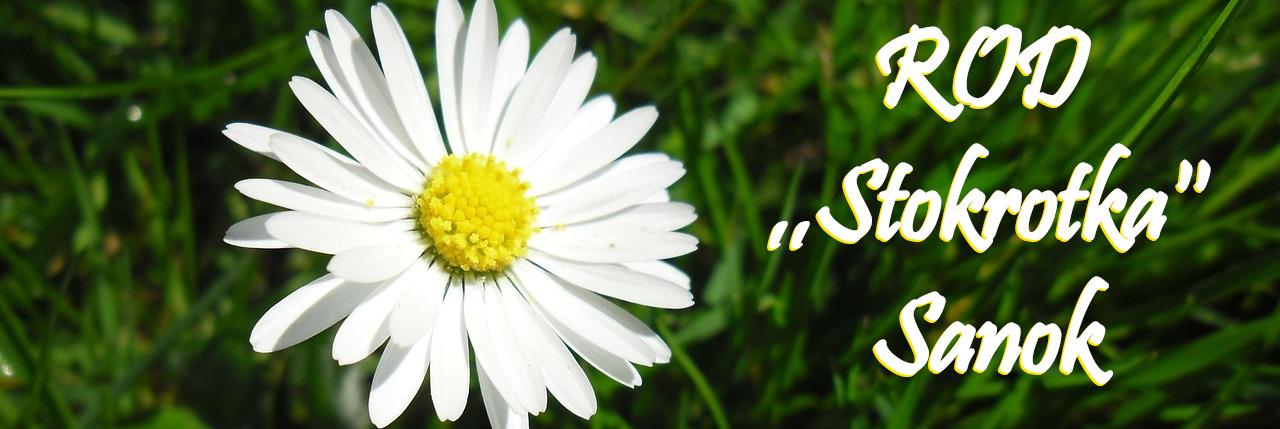
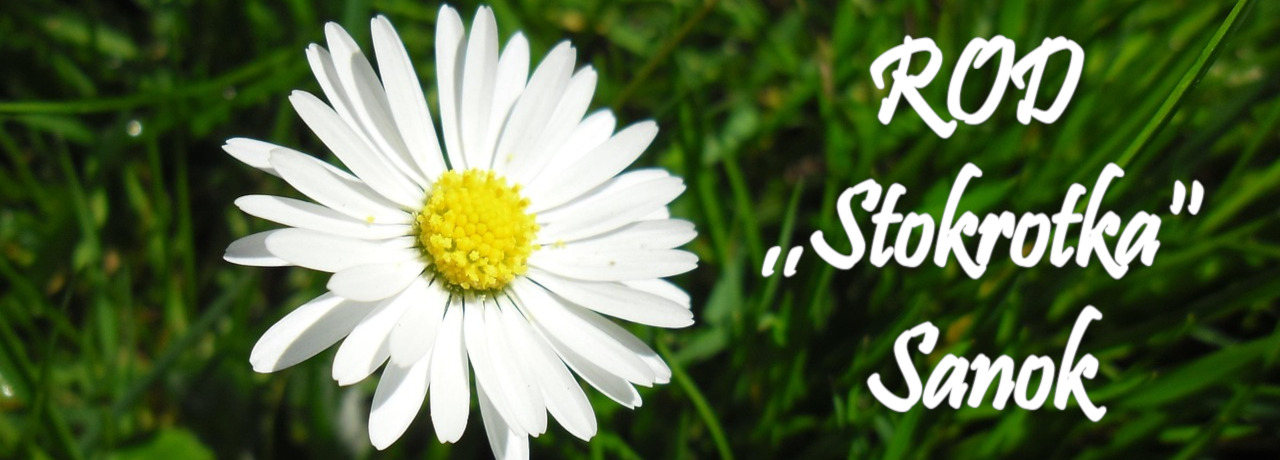
refactor: change wip section

diff --git a/app/garden-map/page.tsx b/app/garden-map/page.tsx
@@ -1,3 +1,4 @@
+import ImageSeparator from '@/components/ImageSeparator';
 import LineSeparator from '@/components/LineSeparator';
 
 export default function DevelopmentPlanPage() {
@@ -5,12 +6,25 @@ export default function DevelopmentPlanPage() {
         <article>
             <h1>Mapa Ogrodu</h1>
             <LineSeparator />
-            <h2>Uproszczony schemat zagospodarowania naszego ogrodu</h2>
-            <section>
-                <p>
-                    *Szczegółowy plan zagospodarowania jest dostępny do pobrania
-                    w zakładce DOKUMENTY.
-                </p>
+            <h2>Podgląd zagospodarowania terenu</h2>
+            <section className="flex flex-col items-center">
+                <img src="/mapa-ogrodu.png" className="w-xl" />
+                <a
+                    href="/#"
+                    download="/Plan_Zagospodarowania_ROD_Stokrotka.pdf"
+                    className="group inline-flex items-center px-6 py-3 gap-1 bg-green-500 text-white rounded-lg border-2 border-green-500 hover:bg-transparent hover:text-green-500 transition"
+                >
+                    <img
+                        src="/download_icon_white.svg"
+                        className="group-hover:hidden"
+                    />
+                    <img
+                        src="/download_icon_green.svg"
+                        className="hidden group-hover:block"
+                    />
+                    Pobierz szczegółowy plan
+                </a>
+                <ImageSeparator />
             </section>
         </article>
     );

diff --git a/app/page.tsx b/app/page.tsx
@@ -2,6 +2,7 @@ import LineSeparator from '@/components/LineSeparator';
 import Slider from './_components/Slider';
 import ImageSeparator from '@/components/ImageSeparator';
 import Link from 'next/link';
+import WorkInProgress from '@/components/WorkInProgress';
 
 export default function HomePage() {
     return (
@@ -12,8 +13,8 @@ export default function HomePage() {
                 Strona internetowa Stowarzyszenia Ogrodowego ,,Stokrotka" w
                 Sanoku
             </h2>
-            <section>
-                <p>
+            <section className="mx-40">
+                <p className="text-center">
                     Zachęcamy naszych Działkowiczów do zaglądania na stronę
                     internetową, aby być na bieżąco z ogłoszeniami związanymi z
                     naszym ogrodem. Znajdą tutaj Państwo także wszelkie
@@ -22,12 +23,13 @@ export default function HomePage() {
             </section>
             <ImageSeparator />
             <section>
-                <h2>Galeria</h2>
+                <h2>Galeria naszego ogrodu</h2>
                 <Slider />
             </section>
             <ImageSeparator />
             <section className="text-center">
                 <h2>Ostatnie Ogłoszenia</h2>
+                <WorkInProgress />
                 <Link
                     href="/announcements"
                     className="inline-block mt-4 px-6 py-3 bg-green-500 text-white rounded-lg border-2 border-green-500 hover:bg-transparent hover:text-green-500 transition"

diff --git a/components/Navbar.tsx b/components/Navbar.tsx
@@ -8,16 +8,16 @@ export default function Navbar() {
         { name: 'ZARZĄD', href: '/management' },
         { name: 'KONTAKT', href: '/contact' },
         { name: 'DOKUMENTY', href: '/documents' },
-        { name: 'PŁATNOŚCI', href: '/payments' },
+        { name: 'OPŁATY', href: '/fees' },
         { name: 'INFORMACJE', href: '/information' },
         { name: 'OGŁOSZENIA', href: '/announcements' },
-        { name: 'REALIZACJE', href: '/completed-projects' },
+        { name: 'INWESTYCJE', href: '/investments' },
         { name: 'WSPOMNIENIA', href: '/memories' },
         { name: 'PORADY OGRODOWE', href: '/gardening-guide' },
     ];
 
     return (
-        <nav className="sticky top-0 z-1  bg-gradient-to-tr from-blue-600 via-blue-400 to-blue-600 mx-auto flex items-center justify-between py-2 px-2 flex-wrap border-b-3 border-gray-50 rounded-b-2xl">
+        <nav className="sticky top-0 z-1  bg-gradient-to-tr from-blue-600 via-blue-400 to-blue-600 mx-auto py-2 px-4 flex items-center justify-between flex-wrap border-b-3 border-gray-50 rounded-b-2xl">
             {/* Logo */}
             <div className="flex-shrink-0">
                 <Link href="/" className="cursor-pointer">

diff --git a/app/contact/page.tsx b/app/contact/page.tsx
@@ -1,14 +1,20 @@
+import ImageSeparator from '@/components/ImageSeparator';
 import LineSeparator from '@/components/LineSeparator';
+import WorkInProgress from '@/components/WorkInProgress';
 
 export default function ContactPage() {
     return (
         <article>
             <h1>Kontakt</h1>
             <LineSeparator />
-            <h2>Dane kontaktowe Stowarzyszenia ROD ,,Stokrotka"</h2>
+            <h2>
+                Dane kontaktowe Stowarzyszenia Ogrodowego <br />
+                ,,Stokrotka" Sanok
+            </h2>
             <section>
-                <p>Treść.</p>
+                <WorkInProgress />
             </section>
+            <ImageSeparator />
         </article>
     );
 }

diff --git a/app/gardening-guide/page.tsx b/app/gardening-guide/page.tsx
@@ -1,14 +1,17 @@
+import ImageSeparator from '@/components/ImageSeparator';
 import LineSeparator from '@/components/LineSeparator';
+import WorkInProgress from '@/components/WorkInProgress';
 
 export default function GardeningGuidePage() {
     return (
         <article>
             <h1>Porady Ogrodowe</h1>
             <LineSeparator />
-            <h2>Porady, wskazówki i inspiracje dla ogrodu</h2>
+            <h2>Porady i wskazówki dla działkowiczów</h2>
             <section>
-                <p>Treść.</p>
+                <WorkInProgress />
             </section>
+            <ImageSeparator />
         </article>
     );
 }

diff --git a/app/memories/page.tsx b/app/memories/page.tsx
@@ -1,14 +1,17 @@
+import ImageSeparator from '@/components/ImageSeparator';
 import LineSeparator from '@/components/LineSeparator';
+import WorkInProgress from '@/components/WorkInProgress';
 
 export default function MemoriesPage() {
     return (
         <article>
             <h1>Wspomnienia</h1>
             <LineSeparator />
-            <h2>Wspomnienia z wydarzeń na naszym ogrodzie</h2>
+            <h2>Galeria wspomnień z ROD ,,Stokrotka'' Sanok</h2>
             <section>
-                <p>Treść.</p>
+                <WorkInProgress />
             </section>
+            <ImageSeparator />
         </article>
     );
 }

diff --git a/app/announcements/page.tsx b/app/announcements/page.tsx
@@ -1,14 +1,17 @@
+import ImageSeparator from '@/components/ImageSeparator';
 import LineSeparator from '@/components/LineSeparator';
+import WorkInProgress from '@/components/WorkInProgress';
 
 export default function AnnouncementsPage() {
     return (
         <article>
             <h1>Ogłoszenia</h1>
             <LineSeparator />
-            <h2>Ogłoszenia Zarządu ROD ,,Stokrotka"</h2>
+            <h2>Ogłoszenia Zarządu ROD ,,Stokrotka" Sanok</h2>
             <section>
-                <p>Treść.</p>
+                <WorkInProgress />
             </section>
+            <ImageSeparator />
         </article>
     );
 }

diff --git a/app/information/page.tsx b/app/information/page.tsx
@@ -1,14 +1,17 @@
+import ImageSeparator from '@/components/ImageSeparator';
 import LineSeparator from '@/components/LineSeparator';
+import WorkInProgress from '@/components/WorkInProgress';
 
 export default function InformationPage() {
     return (
         <article>
             <h1>Informacje</h1>
             <LineSeparator />
-            <h2>Ważne informacje dla naszych działkowców</h2>
+            <h2>Najważniejsze informacje organizacyjne</h2>
             <section>
-                <p>Treść.</p>
+                <WorkInProgress />
             </section>
+            <ImageSeparator />
         </article>
     );
 }

diff --git a/app/fees/page.tsx b/app/fees/page.tsx
@@ -1,14 +1,17 @@
+import ImageSeparator from '@/components/ImageSeparator';
 import LineSeparator from '@/components/LineSeparator';
+import WorkInProgress from '@/components/WorkInProgress';
 
 export default function PaymentsPage() {
     return (
         <article>
-            <h1>Płatności</h1>
+            <h1>Opłaty</h1>
             <LineSeparator />
             <h2>Informacje dotyczące płatności za użytkowanie ogrodu</h2>
             <section>
-                <p>Treść.</p>
+                <WorkInProgress />
             </section>
+            <ImageSeparator />
         </article>
     );
 }

diff --git a/app/about-us/page.tsx b/app/about-us/page.tsx
@@ -1,4 +1,6 @@
+import ImageSeparator from '@/components/ImageSeparator';
 import LineSeparator from '@/components/LineSeparator';
+import WorkInProgress from '@/components/WorkInProgress';
 
 export default function AboutGardenPage() {
     return (
@@ -7,8 +9,9 @@ export default function AboutGardenPage() {
             <LineSeparator />
             <h2>Kilka słów o naszym ogrodzie</h2>
             <section>
-                <p>Treść.</p>
+                <WorkInProgress />
             </section>
+            <ImageSeparator />
         </article>
     );
 }

diff --git a/app/investments/page.tsx b/app/investments/page.tsx
@@ -1,0 +1,17 @@
+import ImageSeparator from '@/components/ImageSeparator';
+import LineSeparator from '@/components/LineSeparator';
+import WorkInProgress from '@/components/WorkInProgress';
+
+export default function CompletedProjectsPage() {
+    return (
+        <article>
+            <h1>Inwestycje</h1>
+            <LineSeparator />
+            <h2>Prace i modernizacje wykonane w naszym ogrodzie</h2>
+            <section>
+                <WorkInProgress />
+            </section>
+            <ImageSeparator />
+        </article>
+    );
+}

diff --git a/app/management/page.tsx b/app/management/page.tsx
@@ -6,7 +6,7 @@ export default function ManagementPage() {
         <article>
             <h1>Zarząd</h1>
             <LineSeparator />
-            <h2>Skład zarządu ROD ,,Stokrotka'' w Sanoku</h2>
+            <h2>Obecny skład zarządu ROD ,,Stokrotka''</h2>
             <section className="text-center mb-10">
                 <p>
                     1. Imię Nazwisko - prezes <br />
